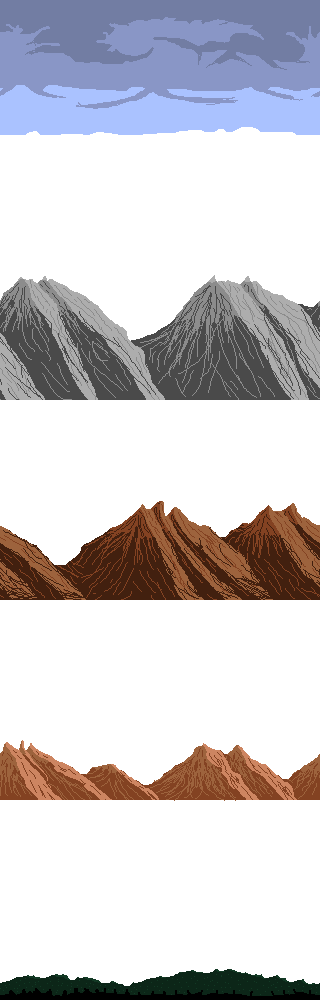
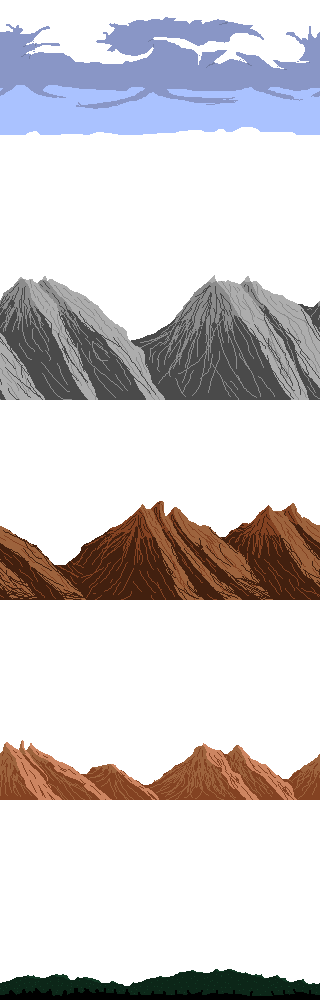
global pixel doubling; fixed platform tex edge rendering

Changed region(s): [[0.0, 0.0, 1.0, 0.093]]

diff --git a/platformer/renderer/images.py b/platformer/renderer/images.py
@@ -25,6 +25,8 @@ class Platform:
     right_clip_rect: pygame.Rect
     top_clip_rect: pygame.Rect
     tex_clip_rect: pygame.Rect
+    tex_left_clip_rect: pygame.Rect
+    tex_right_clip_rect: pygame.Rect
 
 
 @dataclass
@@ -87,8 +89,15 @@ class ImageRenderer(shapes.ShapeRenderer):
         tex_clip_rect = pygame.Rect(0, 0, constants.WORLD_SCALE, constants.WORLD_SCALE)
         tex_clip_rect.topleft = (constants.WORLD_SCALE, TileOffset.TEXTURE * constants.WORLD_SCALE)
 
+        tex_left_clip_rect = pygame.Rect(0, 0, constants.WORLD_SCALE, constants.WORLD_SCALE)
+        tex_left_clip_rect.topleft = (0, TileOffset.TEXTURE * constants.WORLD_SCALE)
+
+        tex_right_clip_rect = pygame.Rect(0, 0, constants.WORLD_SCALE, constants.WORLD_SCALE)
+        tex_right_clip_rect.topleft = (2 * constants.WORLD_SCALE, TileOffset.TEXTURE * constants.WORLD_SCALE)
+
         return Platform(left_clip_rect=left_clip_rect, top_clip_rect=top_clip_rect, right_clip_rect=right_clip_rect,
-                        tex_clip_rect=tex_clip_rect)
+                        tex_clip_rect=tex_clip_rect, tex_left_clip_rect=tex_left_clip_rect,
+                        tex_right_clip_rect=tex_right_clip_rect)
 
     @staticmethod
     def get_ladder_clip() -> Ladder:
@@ -142,11 +151,18 @@ class ImageRenderer(shapes.ShapeRenderer):
         pos_tmp = pos.copy()
         pos_tmp.y -= constants.WORLD_SCALE
         for y in range(platform.height):
+            # left edge
             pos_tmp.x = pos.x
+            pos_tmp.x -= constants.WORLD_SCALE
+            self.target.blit(src, pos_tmp, clip.tex_left_clip_rect)
+            # repeated tex
             for x in range(platform.width):
+                pos_tmp.x += constants.WORLD_SCALE
                 if self.camera.rect_is_visible(pos_tmp):
                     self.target.blit(src, pos_tmp, clip.tex_clip_rect)
-                pos_tmp.x += constants.WORLD_SCALE
+            # right edge
+            pos_tmp.x += constants.WORLD_SCALE
+            self.target.blit(src, pos_tmp, clip.tex_right_clip_rect)
             pos_tmp.y -= constants.WORLD_SCALE
 
         # draw platform

diff --git a/core/resources.py b/core/resources.py
@@ -2,8 +2,7 @@ import pygame
 import pathlib
 from typing import Dict, Tuple, List, Optional
 
-from core.constants import *
-from core import paths
+from core import constants, paths
 
 
 def transform_color_replace(surface: pygame.Surface, color_str_dict: Dict[str, str]) -> None:
@@ -94,7 +93,7 @@ class Cache(object):
         self.fonts: Dict[str, pygame.font.Font] = dict()
 
         # sprites include their flipped frames
-        self.sprites: Dict[str, COLOR_TUPLE] = dict()
+        self.sprites: Dict[Tuple[str, COLOR_TUPLE], pygame.Surface] = dict()
 
         # hsl-transformed and rotated surfaces
         self.hsl_transforms: Dict[Tuple[pygame.Surface, HSL_TUPLE, Optional[COLOR_TUPLE]]] = dict()
@@ -104,7 +103,10 @@ class Cache(object):
         """Loads the image via filename. If already loaded, it's taken from the cache. Returns the image's surface."""
         filename = str(path)
         if filename not in self.images:
-            self.images[filename] = pygame.image.load(filename).convert_alpha()
+            surface = pygame.image.load(filename)
+            if constants.DOES_SCALE_2X:
+                surface = pygame.transform.scale_by(surface, 2)
+            self.images[filename] = surface.convert_alpha()
 
         return self.images[filename]
 
@@ -115,7 +117,7 @@ class Cache(object):
         key = (filename, color_tuple)
         if key not in self.sprites:
             image = self.get_image(path)
-            surface = flip_sprite_sheet(image, SPRITE_SCALE)
+            surface = flip_sprite_sheet(image, constants.SPRITE_SCALE)
             if outline_color is not None:
                 add_outline(surface, outline_color)
 

diff --git a/platformer/renderer/parallax.py b/platformer/renderer/parallax.py
@@ -31,15 +31,11 @@ class ParallaxRenderer:
         """Loads the nth set of background images."""
         background_files = self.cache.paths.all_backgrounds()
         background_path = self.cache.paths.background(background_files[index])
-        self.background = self.cache.get_image(background_path)
-
-        # upscale as necessary
-        for i in range(constants.NUM_SCALE_DOUBLE):
-            self.background = pygame.transform.scale2x(self.background)
+        self.background = pygame.transform.scale_by(self.cache.get_image(background_path), 2)
 
     def get_fill_color(self) -> pygame.Color:
         """Grab first pixels color."""
-        return self.background.get_at((0, 0))
+        return '#727da3' #  self.background.get_at((0, 0))
 
     def get_num_layers(self) -> int:
         """Returns how many layers with a height of RESOLUTION_Y fit inside the loaded background."""

diff --git a/core/constants.py b/core/constants.py
@@ -1,14 +1,14 @@
 from enum import IntEnum
 
-WORLD_SCALE: int = 32
+DOES_SCALE_2X: bool = True
+
+WORLD_SCALE: int = 32 * 2 ** DOES_SCALE_2X
 OBJECT_SCALE: int = WORLD_SCALE // 2
 SPRITE_SCALE: int = WORLD_SCALE * 2
 
 ANIMATION_NUM_FRAMES: int = 4
 
-NUM_SCALE_DOUBLE: int = 1
-
-RESOLUTION_X: int = WORLD_SCALE * 10 * 2 ** NUM_SCALE_DOUBLE
+RESOLUTION_X: int = WORLD_SCALE * 20
 RESOLUTION_Y: int = int(RESOLUTION_X * 0.625)  # 320x200 aspect ratio
 
 SPRITE_CLOTHES_COLORS = ['#42200f', '#834222', '#9d633d']

diff --git a/main.py b/main.py
@@ -6,10 +6,15 @@ from platformer import editor, game
 
 
 if __name__ == '__main__':
+    args = sys.argv[1:]
+
+    # debug
+    args.append('--editor')
+
     game_engine = state_machine.Engine(constants.RESOLUTION_X, constants.RESOLUTION_Y)
     pygame.display.set_caption('Prehistoric Guy')
 
-    if '--editor' in sys.argv:
+    if '--editor' in args:
         game_engine.push(editor.EditorState(game_engine))
     else:
         game_engine.push(game.GameState(game_engine))

diff --git a/core/state_machine.py b/core/state_machine.py
@@ -29,7 +29,7 @@ class Engine(object):
         self.running = False
         self.is_active = True
         self.fill_color = 'black'
-        self.max_fps = 60
+        self.max_fps = 600
         self.num_fps = 0
         self.queue = list()
 
